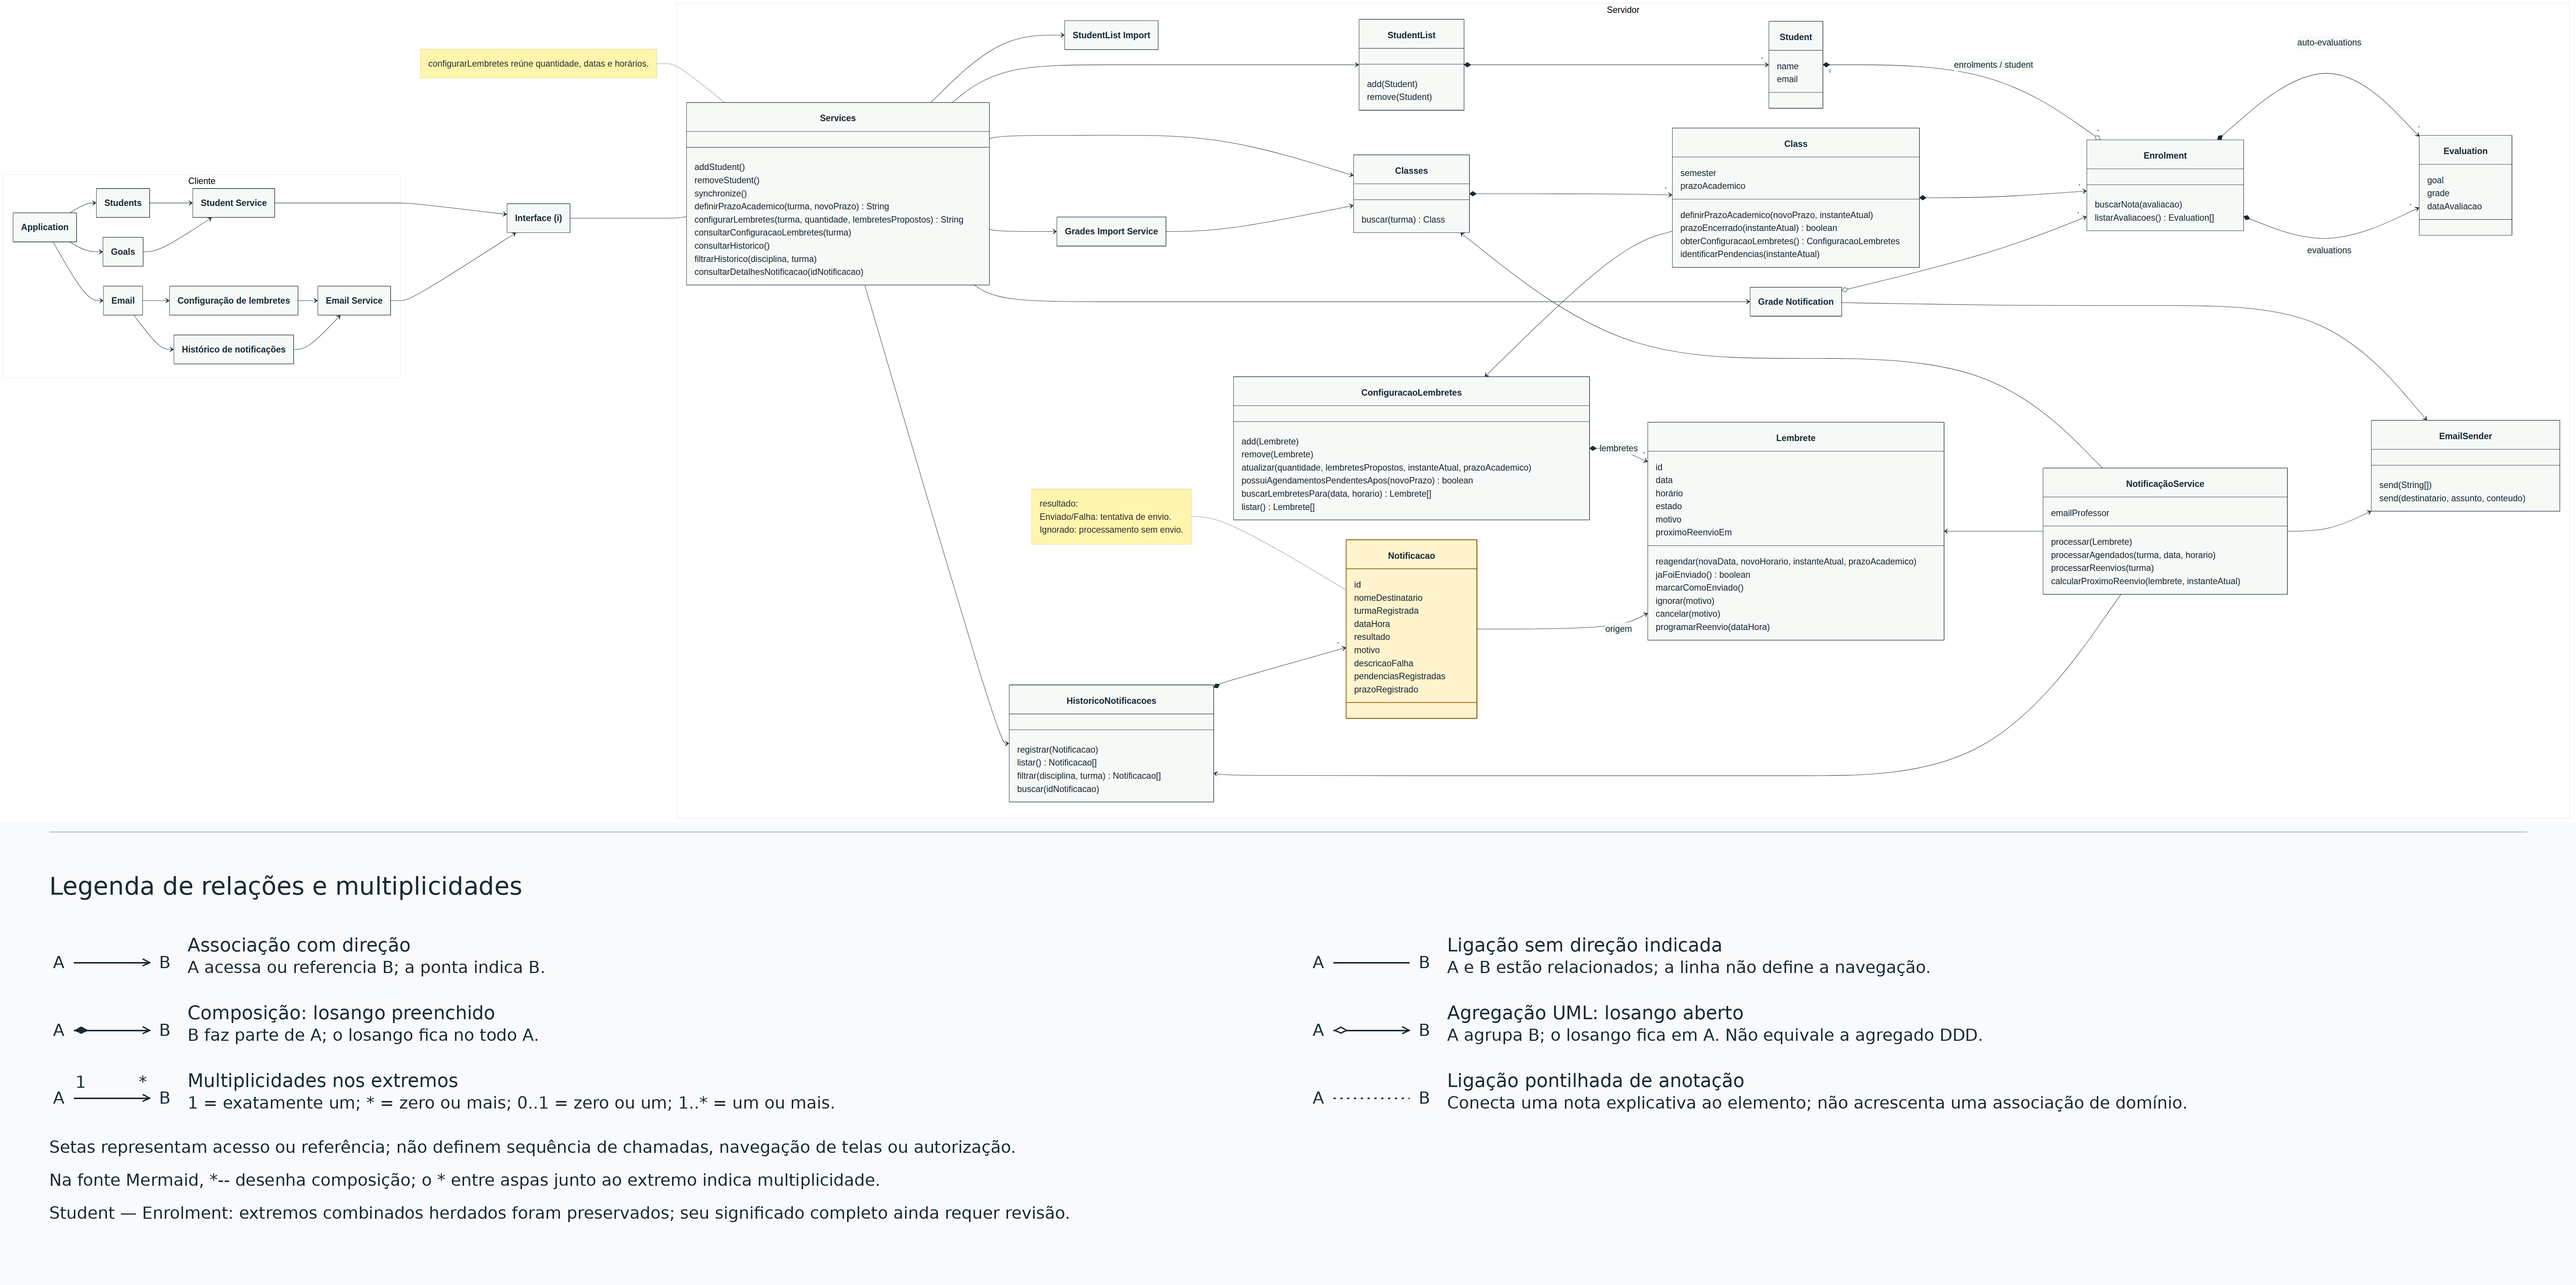
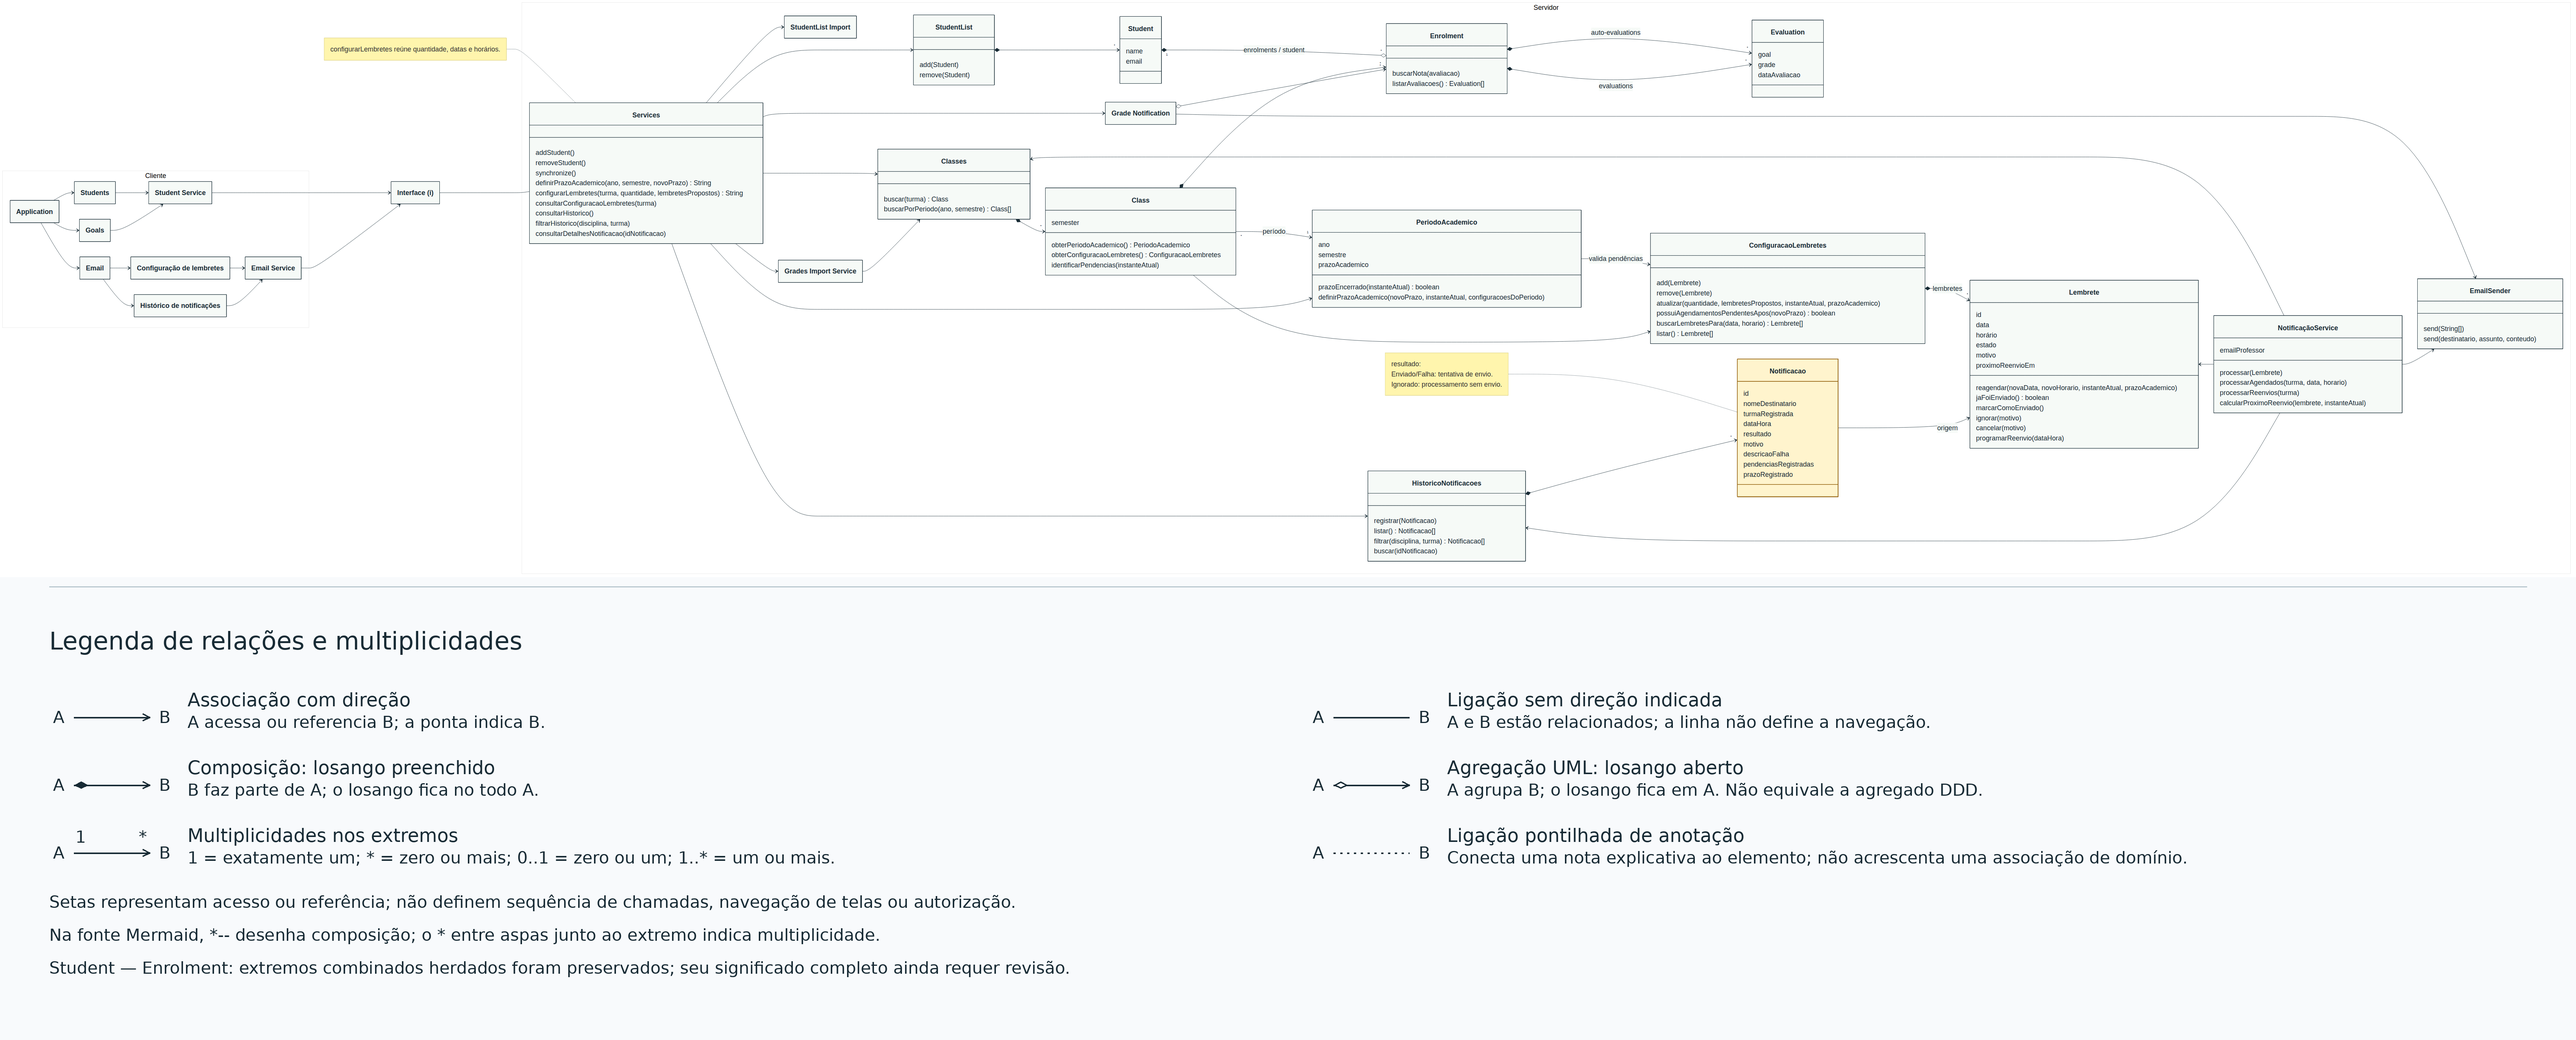
docs(ddd): compartilha prazo acadêmico por período
Transfere o prazo e suas regras para PeriodoAcademico, identificado por ano e semestre, como fonte única para todas as turmas do período.

Mantém os lembretes nas respectivas turmas e exige validar suas configurações em conjunto antes de alterar o prazo. Preserva os demais períodos e os prazos registrados no histórico.

Atualiza o guia e o PNG correspondente à fonte. A adequação do código, dos tipos e dos cenários permanece pendente.

Validação: estrutura do modelo, renderização e inspeção visual do diagrama, integridade do PNG, correspondência SHA-256 com a fonte e links locais do guia.

diff --git a/docs/arquitetura/GUIA-MERMAID.md b/docs/arquitetura/GUIA-MERMAID.md
@@ -215,23 +215,28 @@ A adequação altera somente a precondição inicial dos 11 GUI que ainda exigia
 autenticação; os demais dados, ações e resultados são preservados. Não modifica
 o modelo, o PNG ou os cenários de serviço.
 
-### Prazo acadêmico da turma e rejeição de criação
+### Prazo acadêmico do período e rejeição de criação
 
-`Class` representa `prazoAcademico`, utilizado pela configuração dos lembretes
-daquela turma. Ano e semestre não substituem essa informação. O servidor já possui
-o atributo, a consulta de encerramento, a conversão JSON e o recebimento do prazo
-nas rotas de turmas. A entrada pelo formulário e a integração das novas regras
-de definição do prazo, descritas abaixo, continuam pendentes.
+`PeriodoAcademico` é identificado por ano e semestre e possui `prazoAcademico`.
+Todas as turmas do mesmo período consultam essa única fonte de prazo por
+`Class.obterPeriodoAcademico()`. Por exemplo, as turmas de ESS e Introdução à
+Programação de 2026.2 compartilham o prazo, enquanto 2027.1 é outro período.
+Os identificadores de ano e semestre não determinam uma data padrão.
 
-`Class.prazoEncerrado(instanteAtual)` retorna verdadeiro somente quando o instante
-recebido é posterior ao prazo. A consulta não modifica dados, consulta o relógio
+`Class` mantém sua configuração e seus lembretes, mas não possui nem edita um
+prazo independente. A implementação atual do servidor, suas rotas e os tipos do
+cliente ainda seguem a versão anterior, com prazo por turma; serão adequados em
+incrementos posteriores. Este incremento altera somente o modelo e o guia.
+
+`PeriodoAcademico.prazoEncerrado(instanteAtual)` retorna verdadeiro somente quando
+o instante recebido é posterior ao prazo. A consulta não modifica dados, consulta o relógio
 ou envia email. A igualdade com o prazo retorna falso; as demais validações da
 configuração continuam necessárias.
 
 `Services.configurarLembretes(turma, quantidade, lembretesPropostos)` acessa a turma
-por `Classes` e consulta o relógio
-do servidor uma vez. O prazo da mesma `Class` e o instante obtido são fornecidos
-às operações de configuração e reagendamento. O professor não informa o instante
+por `Classes` e obtém seu período por `Class.obterPeriodoAcademico()`. O serviço
+consulta o relógio do servidor uma vez. O prazo compartilhado desse período e o
+instante obtido são fornecidos às operações de configuração e reagendamento. O professor não informa o instante
 atual. O cadastro e a edição do prazo seguem a operação descrita na próxima seção.
 
 Se a proposta incluir um novo lembrete e o prazo já estiver encerrado, o serviço
@@ -250,53 +255,68 @@ O último percurso representa a regra central do cenário service **Bloqueio de
 criação de novo lembrete após o prazo acadêmico**. O bloqueio durante o processamento
 é detalhado a seguir, incluindo o cancelamento dos reenvios após o prazo.
 
-### Definição e edição do prazo acadêmico
+### Definição e edição do prazo por período
 
-O professor informa o prazo da turma, sem uma data fixa presumida pelo sistema.
-`Services.definirPrazoAcademico(turma, novoPrazo)` obtém a `Class` em criação no
-cadastro ou a localiza por `Classes.buscar(turma)` na edição. O serviço consulta
-uma vez o relógio do servidor e chama
-`Class.definirPrazoAcademico(novoPrazo, instanteAtual)`. O instante atual não é
-fornecido pelo cliente nem guardado na turma.
+O professor cadastra o prazo uma única vez para um ano e semestre, fora do
+cadastro individual de turmas. O período pode ser configurado mesmo quando ainda
+não possui turmas. Não são criados períodos independentes com a mesma identidade
+para cada disciplina; ano e semestre identificam uma única fonte compartilhada.
 
-A turma rejeita uma data inválida com **Prazo acadêmico inválido**. Se o novo prazo
+`Services.definirPrazoAcademico(ano, semestre, novoPrazo)` obtém o período
+correspondente. `Classes.buscarPorPeriodo(ano, semestre)` retorna todas e somente
+as turmas desse período, sem modificar dados. O serviço obtém a configuração de
+cada uma e consulta uma vez o relógio do servidor antes de chamar
+`PeriodoAcademico.definirPrazoAcademico(novoPrazo, instanteAtual, configuracoesDoPeriodo)`.
+O conjunto de configurações é obtido no servidor, não enviado pelo cliente; uma
+turma aberta na interface não limita as turmas que precisam ser verificadas.
+
+O período rejeita uma data inválida com **Prazo acadêmico inválido**. Se o novo prazo
 for anterior ao instante atual, rejeita com **Prazo acadêmico não pode ser anterior
 à data atual**. A igualdade com o instante atual é permitida, desde que a
-configuração existente também seja compatível.
+configuração de todas as suas turmas também seja compatível.
 
-Antes de alterar o atributo, `Class` consulta sua configuração por
-`ConfiguracaoLembretes.possuiAgendamentosPendentesApos(novoPrazo)`. A consulta
+Antes de alterar o atributo, `PeriodoAcademico` consulta cada configuração por
+`ConfiguracaoLembretes.possuiAgendamentosPendentesApos(novoPrazo)`. Cada consulta
 retorna verdadeiro se um lembrete em Não enviado ou Agendado possuir agendamento
 original posterior ao novo prazo ou `proximoReenvioEm` preenchido e posterior a
 ele. Os estados Não enviado e Agendado continuam distintos. Lembretes Enviados,
 Ignorados e Cancelados não bloqueiam a alteração.
 
-Uma incompatibilidade rejeita toda a alteração com **Prazo acadêmico incompatível
-com lembretes pendentes**. A validação precede qualquer mudança, preservando a
-turma, o prazo anterior, os identificadores, os estados, os agendamentos, os
-reenvios e o histórico. Não há cancelamento, remoção ou reagendamento automático.
-Se aceita, a operação altera somente o prazo daquela turma; as outras turmas e
-`Notificacao.prazoRegistrado` permanecem inalterados.
+Uma incompatibilidade em qualquer turma do período rejeita toda a alteração com
+**Prazo acadêmico incompatível com lembretes pendentes**. A validação precede
+qualquer mudança, preservando o prazo anterior, todas as turmas, os identificadores,
+os estados, os agendamentos, os reenvios e o histórico. Não há cancelamento,
+remoção ou reagendamento automático. Se aceita, a operação altera somente o
+prazo do período; todas as turmas associadas passam a consultar o novo valor,
+sem receber cópias editáveis. Os demais períodos e `Notificacao.prazoRegistrado`
+permanecem inalterados.
 
 | Situação | Resultado esperado |
 | --- | --- |
-| Novo prazo anterior ao instante atual | Rejeitar e preservar o prazo anterior. |
-| Novo prazo igual ao instante atual, sem agendamentos pendentes posteriores | Aceitar. |
-| Lembrete pendente ou reenvio programado depois do novo prazo | Rejeitar e preservar todos os lembretes. |
+| Novo prazo anterior ao instante atual | Rejeitar e preservar o prazo anterior de todo o período. |
+| Novo prazo igual ao instante atual, sem agendamentos pendentes posteriores em nenhuma turma do período | Aceitar. |
+| Lembrete pendente ou reenvio programado depois do novo prazo em qualquer turma do período | Rejeitar e preservar o prazo e todos os lembretes. |
 | Lembrete pendente ou reenvio exatamente no novo prazo | Não bloqueia a alteração; as demais validações continuam necessárias. |
 | Somente registros Enviados, Ignorados ou Cancelados depois do novo prazo | Não bloqueiam a alteração; os registros são preservados. |
-| Recuperação de uma turma histórica com prazo passado | Restaurar o prazo sem tratá-lo como um novo cadastro ou edição. |
+| Prazo de 2026.2 alterado com sucesso | Todas as suas turmas consultam o novo prazo; 2025.2 e 2027.1 permanecem inalterados. |
+| Período sem turmas | A lista de configurações é vazia; validar a data sem presumir incompatibilidades. |
+| Recuperação de um período histórico com prazo passado | Restaurar o prazo sem tratá-lo como um novo cadastro ou edição. |
 
-Turmas antigas sem prazo continuam sem prazo, sem inferir datas pelo semestre.
+Um período sem prazo cadastrado continua sem prazo, sem inferir datas pelo semestre.
 As datas dos cenários são exemplos controlados, não valores padrão da aplicação.
 A consulta de compatibilidade preserva a configuração e o histórico, não consulta
-o relógio e não envia email. São reutilizadas as classes e relações existentes.
+o relógio e não envia email. Somente `PeriodoAcademico` é acrescentado como entidade;
+`Classes` mantém a responsabilidade de localizar turmas, e `ConfiguracaoLembretes`
+mantém a consulta dos seus próprios lembretes. `Services` coordena a operação,
+sem armazenar uma cópia do prazo em cada turma.
 
-Este incremento registra decisões de domínio aprovadas. Os cenários que utilizam
-o prazo partem de um valor conhecido. Os 25 cenários atuais não são alterados nem
-considerados cobertura dos novos fluxos de cadastro e edição. Os testes unitários
-existentes de prazo e JSON também não demonstram essas novas regras completas.
-A adequação do servidor, o formulário e novos cenários específicos continuam pendentes.
+Este incremento registra decisões de domínio aprovadas. Os 25 cenários atuais,
+seus comentários e a matriz de cobertura ainda precisam ser adequados ao prazo
+compartilhado; não são alterados nem considerados evidência dessa nova regra.
+Os testes unitários existentes de `Class` e JSON verificam a implementação
+anterior, não o compartilhamento por período nem sua validação entre turmas.
+A adequação do código, dos tipos, da persistência, dos cenários e da GUI será
+apresentada em incrementos posteriores. Os commits anteriores permanecem no histórico.
 
 ### Bloqueio por prazo antes de cada tentativa
 
@@ -307,7 +327,8 @@ primeira tentativa quanto nos reenvios que passam por essa operação:
 2. Se o lembrete já estiver Cancelado, encerrar preservando estado, motivo e histórico.
 3. Acessar a turma correspondente por `Classes` e obter uma vez o instante atual
    consultando o relógio do servidor.
-4. Antes de solicitar email, consultar `Class.prazoEncerrado(instanteAtual)`.
+4. Obter o período da turma e, antes de solicitar email, consultar
+   `PeriodoAcademico.prazoEncerrado(instanteAtual)`.
 5. Se verdadeiro em um reenvio programado, chamar `cancelar` com
    **Prazo acadêmico encerrado** e encerrar sem email ou nova tentativa.
    Na primeira tentativa sem reenvio, manter o bloqueio sem alterar o lembrete.
@@ -428,8 +449,9 @@ precisará ser implementada e garantida na gravação em armazenamento.
 O método `Services.configurarLembretes(turma, quantidade, lembretesPropostos)`
 recebe a turma selecionada, a quantidade e os dados do conjunto final pretendido.
 A turma é localizada por `Classes.buscar(turma)` e sua configuração é obtida por
-`Class.obterConfiguracaoLembretes()`. O serviço fornece o instante obtido do
-relógio e o prazo da mesma turma para coordenar `atualizar`.
+`Class.obterConfiguracaoLembretes()`. O serviço obtém seu período por
+`Class.obterPeriodoAcademico()` e fornece o instante do relógio e o prazo
+compartilhado desse período para coordenar `atualizar`.
 
 O retorno `String`, visível na assinatura do método, contém a confirmação ou
 o motivo da rejeição descrito pelos cenários:
@@ -466,8 +488,8 @@ Exemplos para percorrer conceitualmente:
 
 Esses exemplos cobrem regras de domínio presentes em cenários GUI. Não comprovam
 navegação, mensagens, persistência ou testes executáveis aprovados. Autenticação e
-RBAC não fazem parte do escopo acordado. O prazo pertence a `Class`; o contrato
-concreto do relógio, os estados ainda indefinidos, o envio das notificações, o
+RBAC não fazem parte do escopo acordado. O prazo pertence a `PeriodoAcademico`;
+o contrato concreto do relógio, os estados ainda indefinidos, o envio das notificações, o
 processamento automático e a concorrência continuam pendentes.
 
 ### Responsabilidades na identificação das notas pendentes
@@ -760,13 +782,13 @@ descrito a seguir.
 
 ### Prazo acadêmico registrado na notificação
 
-`Class.prazoAcademico` permanece como prazo oficial da turma, utilizado para
-validar agendamentos e o processamento dos lembretes. `Notificacao.prazoRegistrado`
-preserva o prazo acadêmico da turma naquele processamento, informado no aviso
-quando há envio.
+`PeriodoAcademico.prazoAcademico` é a fonte oficial compartilhada pelas turmas do
+mesmo ano e semestre, utilizada para validar agendamentos e o processamento dos
+lembretes. `Notificacao.prazoRegistrado` preserva o prazo do período naquele
+processamento, informado no aviso quando há envio.
 
-`NotificacaoService` obtém o prazo da mesma turma pelo acesso existente a `Classes`
-e o copia ao compor a notificação que será registrada por
+`NotificacaoService` acessa `Classes`, a turma correspondente e seu período por
+`Class.obterPeriodoAcademico()`. Copia o prazo ao compor a notificação registrada por
 `HistoricoNotificacoes.registrar(Notificacao)`. O registro mantém esse valor
 junto dos demais dados da tentativa; novos registros preservam os anteriores.
 
@@ -775,8 +797,9 @@ enquanto `prazoRegistrado` corresponde a 31/08/2026 às 23:59, a data limite par
 cadastrar notas informada no aviso.
 
 `Services.consultarDetalhesNotificacao(idNotificacao)` usa a busca existente no
-histórico e devolve também `prazoRegistrado`. O único acréscimo no desenho é esse
-atributo em `Notificacao`; métodos, relações e demais classes são preservados.
+histórico e devolve também `prazoRegistrado`. A transferência do prazo oficial
+para o período não exige recalcular esse valor histórico nem alterar a operação
+de consulta dos detalhes.
 
 ### Bloqueio de reprocessamento de lembrete já enviado
 
